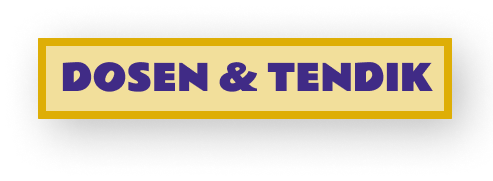
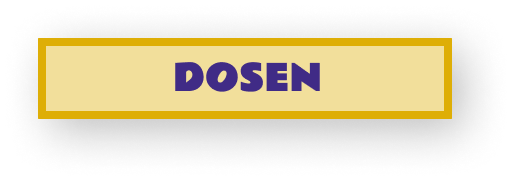
tendik

Changed region(s): [[0.1217, 0.1934, 0.9432, 0.663], [0.0609, 0.221, 0.0913, 0.663]]

diff --git a/index.html b/index.html
@@ -18,10 +18,9 @@
             <li>
                 <a href="#about" onclick="toggleMenu();">Akademik</a>
                 <ul class="subnav">
-                    <li>Kurikulum</li>
-                    <li>Roadmap Penelitian</li>
-                    <li>Roadmap Pengabdian</li>
-                    <li>Strada Journal of Pharmacy</li>
+                    <li>Pendidikan</li>
+                    <li>Penelitian</li>
+                    <li>Pengabdian Masyarakat</li>
                 </ul>
             </li>
             <li>
@@ -155,20 +154,20 @@
                 <img src="images/Arif Wijayanto.png" width="100%" class="M">
             </div>
             <div class="kanan">
-                <img src="images/Mifta.png" width="100%" class="A">
+                <img src="images/Ivan Junius.png" width="100%" class="A">
+            </div>
+        </div>
+        <div class="title" data-aos="fade-up" data-aos-duration="5000" data-aos-delay="500">
+            <img src="IMAGES/TENDIK.png" width="100%" class="ttl">
+        </div>
+        <div class="kartu" data-aos="fade-up" data-aos-delay="900">
+            <div class="kiri1">
+                <img src="images/Mifta.png" width="100%" class="M">
             </div>
         </div>
         <div class="kartu" data-aos="fade-up" data-aos-delay="900">
             <div class="kiri">
                 <img src="images/Dewi Zulfa.png" width="100%" class="M">
-            </div>
-            <div class="kanan">
-                <img src="images/Hasan Ismail.png" width="100%" class="A">
-            </div>
-        </div>
-        <div class="kartu" data-aos="fade-up" data-aos-delay="900">
-            <div class="kiri">
-                <img src="images/Ivan Junius.png" width="100%" class="M">
             </div>
             <div class="kanan">
                 <img src="images/Kharisul.png" width="100%" class="A">
